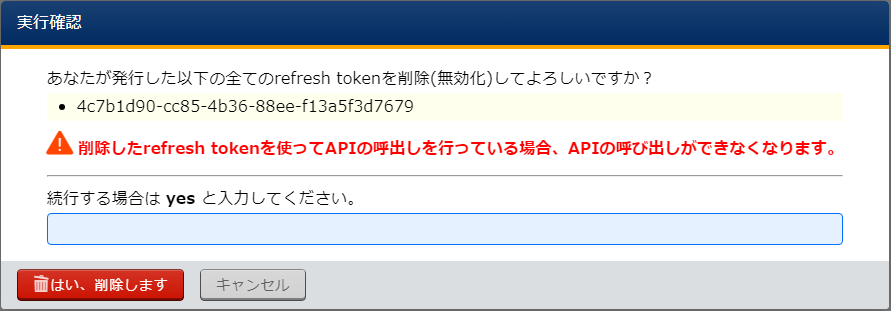
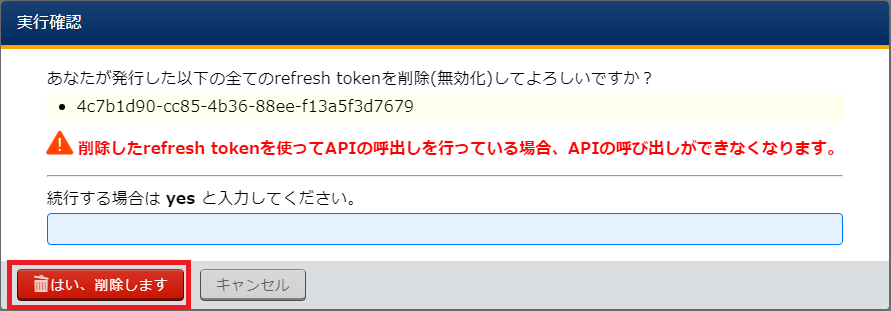
setting profile support

Changed region(s): [[0.0, 0.8103, 0.2121, 1.0]]

diff --git a/src/2.2/ja/manuals/it_automation_base/setting_profile.rst b/src/2.2/ja/manuals/it_automation_base/setting_profile.rst
@@ -8,60 +8,86 @@
 
    .. image:: /images/ja/manuals/platform/login/setting_profile.png
       :alt: 個人設定
-      :width: 6.4939in
-      :height: 4.56706in
+      :width: 6.67391in
+
+   .. note::
+      |  Exastro IT Automation利用中は、アカウント管理メニューは表示されません
+
+アカウント編集
+^^^^^^^^^^^^^^^^^^^^^^^
 
 #. | アカウント編集より、Eメール、名、姓を変更することができます。
 
    .. image:: /images/ja/manuals/platform/login/setting_profile_account.png
       :alt: 個人設定_アカウント編集
-      :width: 6.4939in
-      :height: 4.56706in
+      :width: 6.67391in
 
-   .. tip::
+   .. note::
       |  ※ユーザ名は変更できません。
+
+パスワード変更
+^^^^^^^^^^^^^^^^^^^^^^^
 
 #. | パスワード変更より、自身のパスワードを変更することができます。
 
    .. image:: /images/ja/manuals/platform/login/setting_profile_password.png
       :alt: 個人設定_パスワード変更
-      :width: 6.4939in
-      :height: 4.56706in
+      :width: 6.67391in
+
+二要素認証設定
+^^^^^^^^^^^^^^^^^^^^^^^
 
 #. | 二要素認証設定より、パスワード＋他の認証方式でのログインが行えるようになります。
 
    .. image:: /images/ja/manuals/platform/login/setting_profile_auth.png
       :alt: 個人設定_二要素認証設定
-      :width: 6.4939in
-      :height: 4.56706in
+      :width: 6.67391in
+
+トークン発行
+^^^^^^^^^^^^^^^^^^^^^^^
+
+本システムにおいて、APIを呼び出す際に必要となるアクセストークンがありますが、アクセストークンの発行には、本説明で説明するリフレッシュトークンが必要となります。
+
+.. tip::
+   | APIの認証については、「 :doc:`../../reference/index` 」-「 :doc:`../../reference/api/index` 」-「 :doc:`../../reference/api/operator/index` - :doc:`../../reference/api/operator/certification` 」、「 :doc:`../../reference/api/system_manager/index` - :doc:`../../reference/api/system_manager/certification` 」参照
 
 #. | トークン発行より、API実行に必要なトークンの発行ならびに発行したトークンの一覧表示を行うことができます。
 
    .. image:: /images/ja/manuals/platform/login/setting_profile_token.png
       :alt: 個人設定_トークン一覧
-      :width: 6.4939in
-      :height: 4.56706in
+      :width: 6.67391in
 
-#. | 初めてトークンを発行する際は、【発行】ボタンを押下して、トークンを発行してください。
+#. | 初めてトークンを発行する際は、:guilabel:`発行` ボタンを押下して、必要な情報を入力しトークンを発行することができます。
+
+   | 二要素認証を使用している場合は、二要素認証で使用しているアプリケーションのワンタイムパスワードを入力する必要があります。
 
    .. image:: /images/ja/manuals/platform/login/setting_profile_token_issue.png
       :alt: 個人設定_トークン発行
-      :width: 6.4939in
-      :height: 4.56706in
+      :width: 6.67391in
 
-#. | 発行されたトークンは、再表示できませんので必ず発行結果の画面のトークンを保存してください。
+#. | 発行されたトークンは、再表示できませんので必ず発行結果の画面のトークンを保存する必要があります。
 
    .. image:: /images/ja/manuals/platform/login/setting_profile_token_issue_ok.png
       :alt: 個人設定_トークン発行OK
-      :width: 6.4939in
-      :height: 4.56706in
+      :width: 6.67391in
 
-#. | トークンが不要となった際は、【発行】ボタンを押下して、発行したトークンを削除してください。
+#. | 発行したトークンの有効期限は、トークン一覧で確認できます。
+
+   .. image:: /images/ja/manuals/platform/login/setting_profile_token_list.png
+      :alt: 個人設定_トークン一覧
+      :width: 6.67391in
+
+#. | 発行したトークンが不要となった際は、:guilabel:`削除` ボタンを押下して、トークンを削除することができます。
+
+   .. image:: /images/ja/manuals/platform/login/setting_profile_token_list_delete.png
+      :alt: 個人設定_トークン一覧(削除)
+      :width: 6.67391in
+
+   | 削除確認で本当に削除する場合は、"yes"を入力して、:guilabel:`はい、削除します` ボタンを押下します。 
 
    .. image:: /images/ja/manuals/platform/login/setting_profile_token_delete.png
       :alt: 個人設定_トークン削除
-      :width: 6.4939in
-      :height: 4.56706in
+      :width: 6.67391in
 
-   .. tip::
-      |  削除はすべてのトークンが無効となります。
+   .. warning::
+      |  削除した際、すべてのトークンが無効となります。

diff --git a/src/2.2/ja/manuals/it_automation_base/general.rst b/src/2.2/ja/manuals/it_automation_base/general.rst
@@ -17,8 +17,7 @@
 
    .. image:: /images/ja/diagram/login1.png
       :alt: 初回ログイン
-      :width: 6.4939in
-      :height: 4.56706in
+      :width: 6.67391in
 
    .. list-table:: 初回ログイン時の入力内容
       :widths: 10 10
@@ -30,31 +29,26 @@
       * - adminまたはadmin@example.com ※
         - password  ※
 
-.. tip::
-          |  ※初回ログイン時は、「 :ref:`organization_creation_v2.1` 」で指定した管理者のログインID(ユーザ名、E-mailアドレス)、初期パスワードを使用してください。
+   .. tip::
+      |  ※初回ログイン時は、「 :ref:`organization_creation_v2.1` 」で指定した管理者のログインID(ユーザ名、E-mailアドレス)、初期パスワードを使用してください。
 
-
-
-#. | パスワードの更新を行い、:guilabel:`送信ボタン` を押下します。
+#. | パスワードの更新を行い、:guilabel:`送信` ボタンを押下します。
 
    .. image:: /images/ja/diagram/login2.png
       :alt: 初回ログイン
-      :width: 6.4939in
-      :height: 4.56706in
+      :width: 6.67391in
 
-#. | アカウント情報の更新し、 :guilabel:`更新ボタン` を押下します。
+#. | アカウント情報の更新し、 :guilabel:`更新` ボタンを押下します。
 
    .. image:: /images/ja/diagram/login3.png
       :alt: 初回ログイン
-      :width: 6.4939in
-      :height: 4.56706in
+      :width: 6.67391in
 
 #. | 下記のようにWorkspace管理画面が表示されます。
 
    .. image:: /images/ja/diagram/login_workspace.png
-      :alt: 初回ログイン
-      :width: 6.4939in
-      :height: 4.56706in
+      :alt: Workspace管理画面
+      :width: 6.67391in
 
 
 言語切り替え
@@ -64,5 +58,6 @@
 
    .. image:: /images/ja/diagram/login4.drawio.png
       :alt: 言語の切り替え
-      :width: 6.4939in
-      :height: 4.56706in
+      :width: 6.67391in
+
+.. include:: ../it_automation_base/setting_profile.rst

diff --git a/src/2.2/ja/manuals/platform_management/general.rst b/src/2.2/ja/manuals/platform_management/general.rst
@@ -16,8 +16,7 @@
 
    .. image:: /images/ja/manuals/platform/login/exastro-login.png
       :alt: ログイン
-      :width: 6.4939in
-      :height: 4.56706in
+      :width: 6.67391in
 
    .. list-table:: ログイン時の入力内容
       :widths: 10 10
@@ -29,18 +28,17 @@
       * - admin ※
         - password  ※
 
-.. tip::
-          |  ユーザー名、パスワードは、インストール時に指定したシステム管理者のユーザ名、パスワードを使用してください。
-          |  docker版でインストールした際のユーザ名、パスワードは、「 :ref:`install_docker_compose_v2.2` 」を参照
-          |  helm版でインストールした際のユーザ名は、パスワード、「 :ref:`install_helm_v2.2` 」を参照
-
-.. todo:: オーガナイゼーション管理画面（一覧）の画像に差し替え
+   .. tip::
+             |  ユーザー名、パスワードは、インストール時に指定したシステム管理者のユーザ名、パスワードを使用してください。
+             |  docker版でインストールした際のユーザ名、パスワードは、「 :ref:`install_docker_compose_v2.2` 」を参照
+             |  helm版でインストールした際のユーザ名は、パスワード、「 :ref:`install_helm_v2.2` 」を参照
 
 #. | ログイン後、下記のようにオーガナイゼーション管理画面が表示されます。
 
-   .. image:: /images/ja/diagram/login_workspace.png
-      :alt: ログイン
-      :width: 6.4939in
-      :height: 4.56706in
+   .. todo:: オーガナイゼーション管理画面（一覧）の画像に差し替え
 
-.. include:: /2.2/ja/manuals/it_automation_base/setting_profile.rst
+   .. image:: /images/ja/diagram/login_workspace.png
+      :alt: オーガナイゼーション管理画面（一覧）
+      :width: 6.67391in
+
+.. include:: ../it_automation_base/setting_profile.rst

diff --git a/src/2.2/ja/manuals/organization_management/general.rst b/src/2.2/ja/manuals/organization_management/general.rst
@@ -1,0 +1,40 @@
+============
+ログイン方法
+============
+
+はじめに
+========
+
+| 本書は、オーガナイゼーション管理の画面操作する際のログイン方法について記載したものです。
+
+.. _organization_manager_login:
+
+ログイン
+========
+
+#. | ログイン時は、必ずログインID(ユーザ名、E-mailアドレス)とパスワードを準備の上、ログインしてください。
+
+   .. image:: /images/ja/manuals/platform/login/exastro-login.png
+      :alt: ログイン
+      :width: 6.67391in
+
+   .. list-table:: ログイン時の入力内容
+      :widths: 10 10
+      :header-rows: 1
+      :align: left
+
+      * - ユーザ名またはメールアドレス
+        - パスワード
+      * - adminまたはadmin@example.com ※
+        - password  ※
+
+   .. tip::
+      |  ログインID(ユーザ名、E-mailアドレス)、パスワードは、システム管理者が :doc:`../platform_management/organization` のオーガナイゼーション作成で設定したログインID(ユーザ名、E-mailアドレス)、パスワードを使用してください。
+
+#. | ログイン後、下記のようにワークスペース一覧画面が表示されます。
+
+   .. image:: /images/ja/diagram/login_workspace.png
+      :alt: ログイン
+      :width: 6.67391in
+
+.. include:: ../it_automation_base/setting_profile.rst

diff --git a/src/2.2/ja/manuals/organization_management/index.rst b/src/2.2/ja/manuals/organization_management/index.rst
@@ -4,8 +4,9 @@
 
 .. toctree::
    :maxdepth: 2
-   :numbered: 5
+   :numbered:
 
+   general
    workspace
    user
    role

diff --git a/src/2.2/ja/manuals/platform_management/index.rst b/src/2.2/ja/manuals/platform_management/index.rst
@@ -4,7 +4,7 @@
 
 .. toctree::
    :maxdepth: 2
-   :numbered: 3
+   :numbered:
 
    general
    organization
